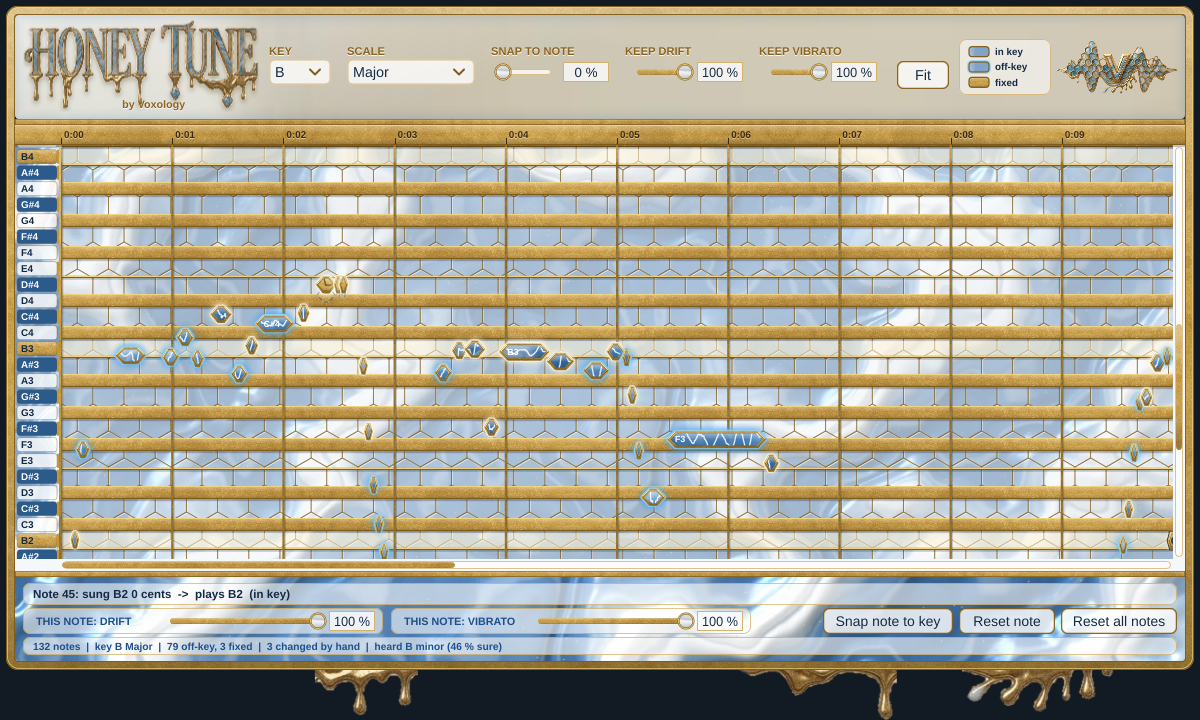
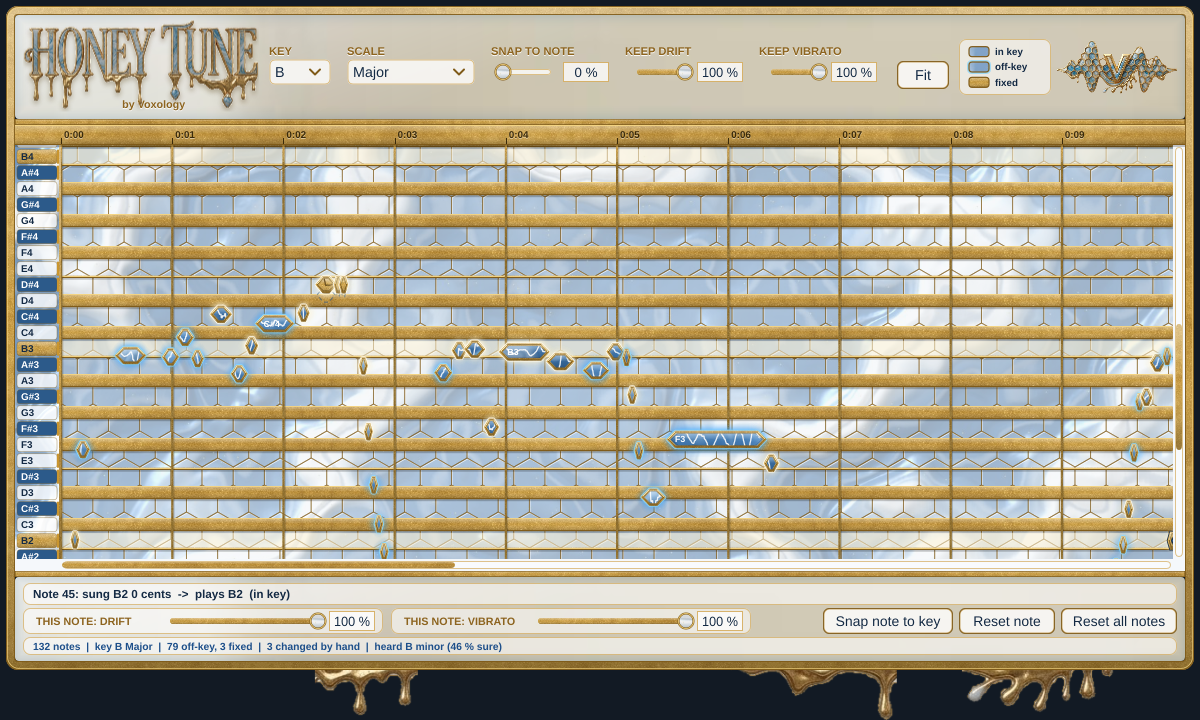
Honey Tune: bottom bar in Voxology's cream glass too
Claude-Session: https://claude.ai/code/session_01CehMogZvv8Ni66uUe9tZRt

Changed region(s): [[0.0, 0.7944, 0.9867, 0.9167]]

diff --git a/honeytune/HoneyPanel.cpp b/honeytune/HoneyPanel.cpp
@@ -41,7 +41,7 @@ HoneyPanel::HoneyPanel() : look (std::make_unique<honeytheme::Look>())
     {
         l.setText (text, dontSendNotification);
         l.setFont (FontOptions (12.0f, Font::bold));
-        l.setColour (Label::textColourId, navy);
+        l.setColour (Label::textColourId, Colour (0xff8d641f));
         addAndMakeVisible (l);
     };
     label (keyLabel, "KEY");
@@ -199,7 +199,7 @@ void HoneyPanel::paint (Graphics& g)
 
     // Marble bars (top and bottom); the roll paints the middle.
     drawCreamGlass (g, topBar, 4.0f);
-    drawMarble (g, bottomBar, 0.0f, { 200.0f, 300.0f });
+    drawCreamGlass (g, bottomBar, 4.0f);
 
     // Glass cards behind every group of controls and text.
     for (const auto& c : cards)

diff --git a/claude/RESUME-HERE.md b/claude/RESUME-HERE.md
@@ -172,7 +172,7 @@ from the user's mockup (assets/src/cutout.py removes fake checkerboards; drip_a/
 art (images/13.jpg -> assets/title.png, "by Voxology" trimmed and drawn as gold text); marble now 3D (height
 field lighting + specular + sheen in make_marble.py). Top bar 104 px, editor 1200 x 720.
 Round 4: top bar = Voxology header (marble_cream_panel + 160deg sheen + blue inner shadow, drawCreamGlass; labels
-drawCaps gold-deep + white edge); drips de-haloed and drawn BEFORE the frame with tops tucked under it.
+drawCaps gold-deep + white edge); bottom bar also cream glass; drips de-haloed and drawn BEFORE the frame with tops tucked under it.
 
 ## Honey Tune (decided 2026-10-05; build AFTER the user confirms v0.2 works in Cubase)
 User's name for our Melodyne-style note editor: "Honey Tune". Each note = a gold-rimmed blue-marble
